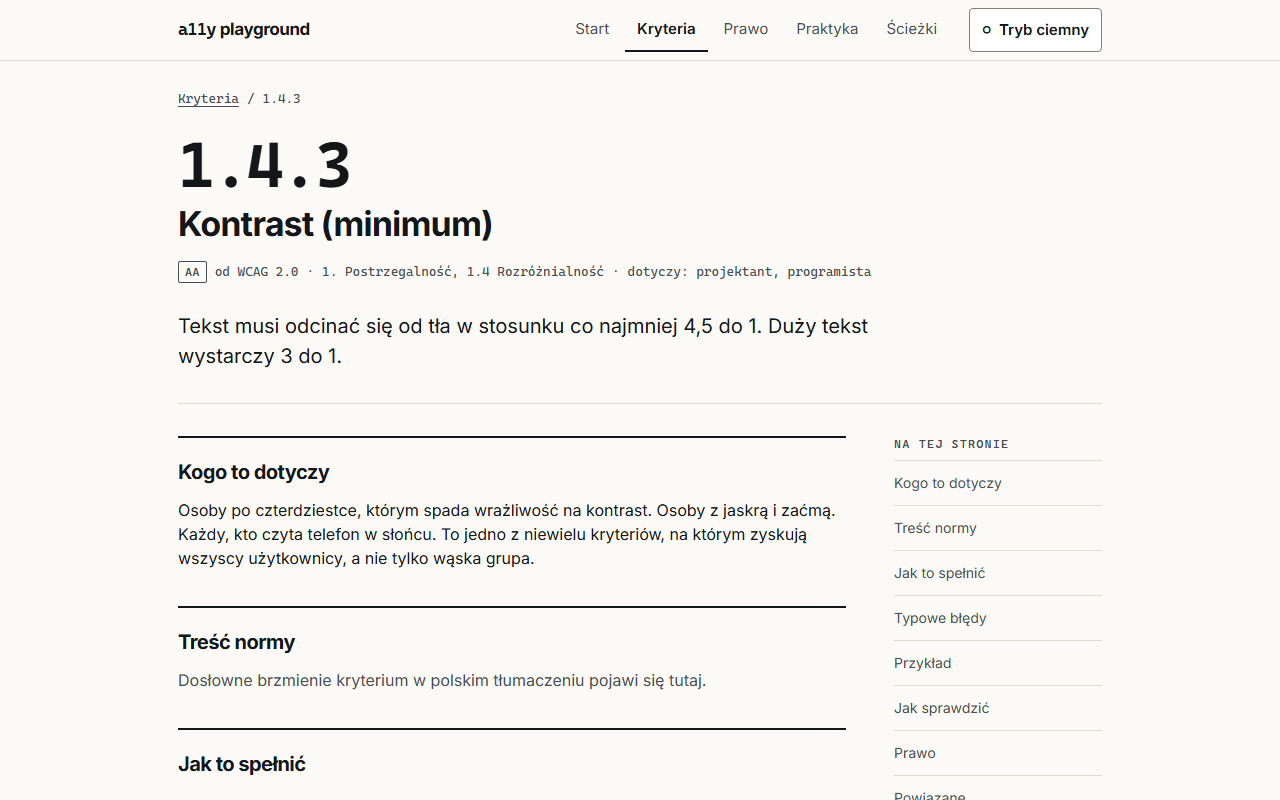
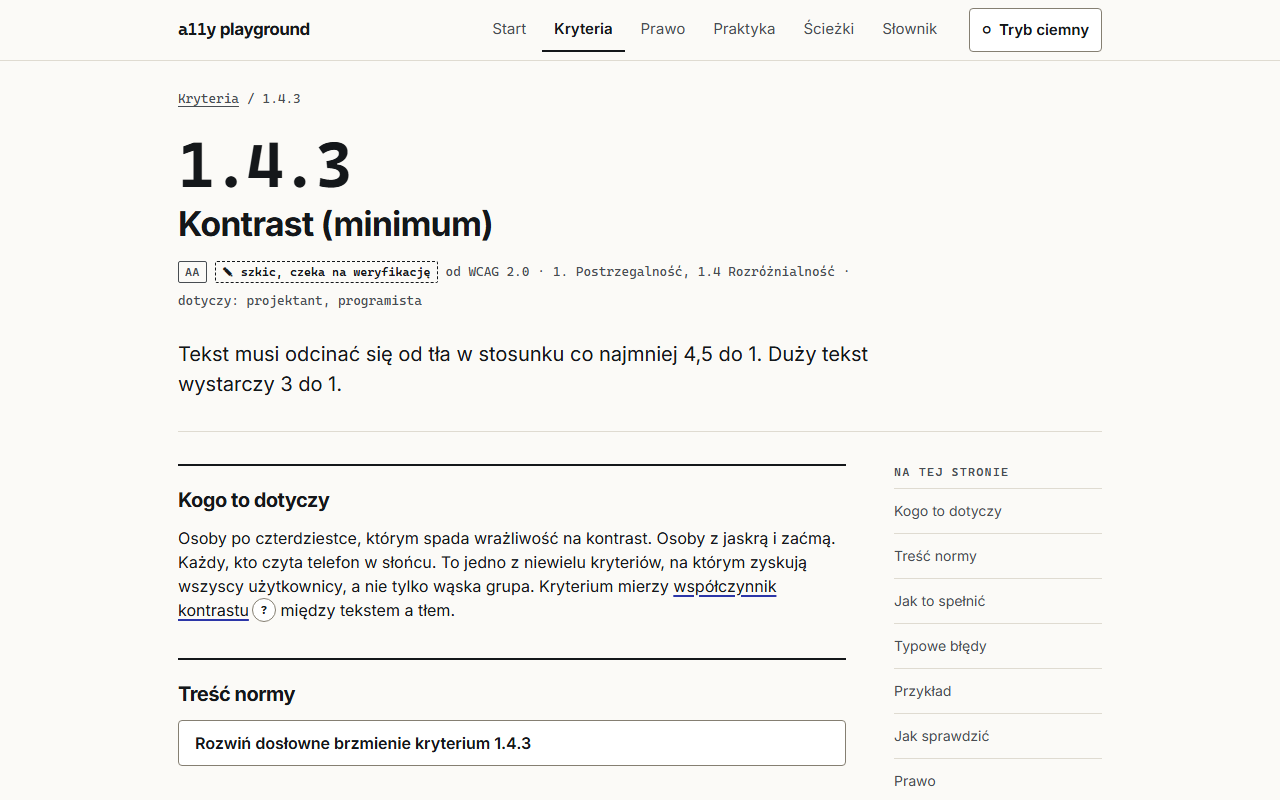
docs: update README for phase 2

diff --git a/README.md b/README.md
@@ -19,7 +19,7 @@ a11y playground is a learning app for people who build digital products in Polan
 The interface is in Polish. This README is in English.
 
 > [!NOTE]
-> The project is in phase 1 (content skeleton). All 86 WCAG 2.2 criteria are listed and have their own page, but most pages are still empty sections. Explanations arrive in phase 2. Prawo, Praktyka and Ścieżki are placeholders until later phases.
+> The project is in phase 2 (explanations). Every A and AA criterion of WCAG 2.2 has a plain-language explanation, marked as a draft until a person has checked it. AAA criteria get their content in phase 8. Prawo, Praktyka and Ścieżki are placeholders until later phases.
 
 ### What works today
 
@@ -27,8 +27,12 @@ The interface is in Polish. This README is in English.
 - Main navigation that wraps onto its own row on narrow screens instead of hiding behind a menu button.
 - Light and dark mode. It follows the operating system by default, and the header toggle stores an explicit choice.
 - Skip link, a stable landmark structure, and focus moved to the new `h1` with the page title announced after every client-side route change.
-- **Criteria list** (`/kryteria`) with filters for WCAG version, level and principle. The filters are native radio buttons and checkboxes, their state lives in the URL, and the result count is announced to screen readers.
+- **Criteria list** (`/kryteria`) with filters for WCAG version, level, principle and role. The filters are native radio buttons and checkboxes, their state lives in the URL, and the result count is announced to screen readers.
 - **Criterion pages** (`/kryteria/1.4.3`) with a fixed section order, a "nowe w 2.2" badge for the nine new criteria, and 4.1.1 marked as removed in 2.2. Every page is prerendered to static HTML.
+- **Explanations** for all 55 A and AA criteria: who it affects, how to meet it by role, typical errors, how to test it, common confusions. Drafts carry a visible "szkic, czeka na weryfikację" badge.
+- **Normative text** in Polish from the authorized W3C translation of WCAG 2.1, collapsed on each criterion page. The criteria new in 2.2 link to their sources until a licensed Polish text is available.
+- **Glossary** (`/slownik`) of about 30 terms, alphabetical, each with a plain explanation and, where WCAG defines the term, its normative wording. The first use of a term in a criterion links to it, with a small button that opens a short definition.
+- **Search** (`/szukaj`, also on the home page) over criteria and the glossary. It finds criteria by number, name or symptom ("modal", "placeholder") and ignores Polish diacritics.
 
 | Light | Dark | Mobile |
 | --- | --- | --- |
@@ -36,7 +40,11 @@ The interface is in Polish. This README is in English.
 
 | Criteria list | Criterion page |
 | --- | --- |
-| ![Criteria list with version, level and principle filters](docs/screenshots/criteria-list.png) | ![Criterion page for 1.4.3 Kontrast (minimum)](docs/screenshots/criterion-page.png) |
+| ![Criteria list with version, level, principle and role filters](docs/screenshots/criteria-list.png) | ![Criterion page for 1.4.3 Kontrast (minimum) with a draft badge](docs/screenshots/criterion-page.png) |
+
+| Glossary preview | Glossary | Search |
+| --- | --- | --- |
+| ![Definition preview opened next to a term on a criterion page](docs/screenshots/glossary-preview.png) | ![Glossary page with the letter index](docs/screenshots/glossary.png) | ![Search results for kontrast](docs/screenshots/search.png) |
 
 ## Getting started
 
@@ -55,19 +63,20 @@ pnpm exec playwright install chromium
 
 ## Writing content
 
-Criterion names, levels and versions are generated. The explanations are written by hand in Markdown, one file per criterion in `content/kryteria/<id>.md`:
+Criterion names, levels, versions and normative text are generated. The explanations are written by hand in Markdown, one file per criterion in `content/kryteria/<id>.md`:
 
 ```markdown
 ---
+status: szkic
 summary: Tekst musi odcinać się od tła w stosunku co najmniej 4,5 do 1.
 roles: [projektant, programista]
 related: ["1.4.6", "1.4.11"]
-lastVerified: 2026-09-27
+keywords: [szary tekst, placeholder]
 ---
 
 ## Kogo to dotyczy
 
-Osoby po czterdziestce, którym spada wrażliwość na kontrast.
+Osoby po czterdziestce, którym spada wrażliwość na kontrast. Kryterium mierzy [współczynnik kontrastu](slownik:wspolczynnik-kontrastu).
 
 ## Jak to spełnić
 
@@ -77,24 +86,47 @@ Osoby po czterdziestce, którym spada wrażliwość na kontrast.
 ```
 
 - **Frontmatter:**
+  - `status`: `szkic` for a draft, `zweryfikowane` once a person has checked it against the sources.
   - `summary`: one sentence, up to 200 characters.
   - `roles`: any of `programista`, `projektant`, `autor treści`, `tester`.
   - `related`: other criterion numbers.
-  - `lastVerified`: date of the last check against the sources.
-- **Sections** must use these `##` titles, in this order: Kogo to dotyczy, Jak to spełnić, Typowe błędy, Jak sprawdzić, Częste pomyłki. Leave out any you have not written yet. Use `###` inside a section, for example to split it by role.
-- **Checks:** a file with a typo in a section title, an unknown key, a summary that is too long, or a reference to a criterion that does not exist fails `pnpm test` and the build, with the file name and the reason.
+  - `keywords`: optional words people search with, not shown on the page.
+  - `lastVerified`: the date of that check. Required with `zweryfikowane`, not allowed with `szkic`.
+- **Sections** must use these `##` titles, in this order: Kogo to dotyczy, Jak to spełnić, Typowe błędy, Jak sprawdzić, Częste pomyłki. Use `###` inside a section, for example to split it by role. Every A and AA criterion needs the first four.
+- **Glossary terms:** mark a term as `[nazwę](slownik:nazwa)`. The first use on a page becomes a link with a definition preview, later uses stay plain text. Terms are marked by hand because Polish inflection makes automatic matching unreliable.
+- **Checks:** a file with a typo in a section title, an unknown key or glossary term, a summary that is too long, or a reference to a criterion that does not exist fails `pnpm test` and the build, with the file name and the reason. So does a missing A or AA explanation, and verified content older than 12 months.
+
+To verify a draft, check it against the normative text and the W3C Understanding document, then change `status` to `zweryfikowane` and add `lastVerified`.
+
+### Glossary entries
+
+One file per term in `content/slownik/<slug>.md`. The slug is the anchor on `/slownik`.
+
+```markdown
+---
+term: nazwa
+also: [dostępna nazwa]
+normative: nazwa
+status: szkic
+---
+To, co czytnik ekranu powie o kontrolce, zanim powie, czym ona jest.
+```
+
+`also` lists everyday names, shown under the term and matched by search. `normative` names the term in the WCAG 2.1 glossary; its definition is imported, not typed.
 
 > [!NOTE]
 > Later the content will be edited in Notion. A sync script will write these same files, so this format stays the contract between editors and the app.
 
 ### Where the criterion names come from
 
-`pnpm import:wcag` regenerates `src/content/wcag.gen.ts`. It takes numbers, levels and versions from the W3C WCAG 2.2 data. Polish names come from two sources:
+`pnpm import:wcag` regenerates `src/content/wcag.gen.ts` and `src/content/wcag-text.gen.ts`. It takes numbers, levels and versions from the W3C WCAG 2.2 data. Polish names come from two sources:
 
 - the [authorized W3C translation of WCAG 2.1](https://www.w3.org/Translations/WCAG21-pl/),
 - for the nine criteria new in 2.2, the [unofficial IRDPL translation](https://wcag.irdpl.pl/guidelines/22/), because there is no authorized Polish translation of 2.2 yet. Each criterion page says which source its name comes from.
 
-Run the import by hand and review the diff of the generated file in a PR.
+The normative text of criteria and the glossary definitions come only from the authorized 2.1 translation. Text from IRDPL will be quoted once IRDPL confirms the licence.
+
+Run the import by hand and review the diff of the generated files in a PR.
 
 ## Scripts
 
@@ -116,6 +148,7 @@ CI runs `lint`, `build` and `test` on every pull request and on pushes to `maste
 - Inter, self-hosted through `@fontsource-variable/inter`. Criterion numbers, article numbers and dates use the system monospace font.
 - [Nitro](https://nitro.build) for the server build. It picks the Vercel preset automatically when the build runs on Vercel.
 - [ArkType](https://arktype.io) to validate content files and URL filters, [marked](https://marked.js.org) to render Markdown on the server.
+- [MiniSearch](https://lucaong.github.io/minisearch/) for search. The index is built at prerender time into a static `/search-index.json`, loaded only on `/szukaj`.
 - [Vitest](https://vitest.dev) for content tests, [Playwright](https://playwright.dev) with [axe-core](https://github.com/dequelabs/axe-core) for end-to-end accessibility tests.
 
 ## Accessibility of the app itself
@@ -135,12 +168,14 @@ The baseline is WCAG 2.2 Level AA, plus 2.3.3 and 2.5.5 at AAA. See [`docs/acces
 ```text
 content/
   kryteria/      one Markdown file per criterion
+  slownik/       one Markdown file per glossary term
 scripts/
-  import-wcag.ts generates src/content/wcag.gen.ts
+  import-wcag.ts generates src/content/wcag.gen.ts and wcag-text.gen.ts
 src/
   content/       WCAG structure, Markdown parsing and validation, server functions
+  search/        search options, index builder and relevance tests
   routes/        file-based routes (__root.tsx holds the layout)
-  components/    header, theme toggle, route announcer, level badges
+  components/    header, theme toggle, route announcer, badges, glossary previews
   styles.css     Tailwind setup, colour tokens, styles for rendered Markdown
 e2e/             Playwright tests: axe, target size, keyboard
 docs/
@@ -155,7 +190,7 @@ The full plan, with content scope, architecture and risks, is in [`docs/design/2
 
 - [x] **0. Foundation.** App shell, navigation, themes, lint, tests, CI.
 - [x] **1. Content skeleton.** WCAG structure with Polish names, Markdown content format, criteria list with filters, prerendered criterion pages.
-- [ ] **2. Explanations.** Plain-language content for every A and AA criterion, glossary, search.
+- [x] **2. Explanations.** Plain-language drafts for every A and AA criterion, normative text, glossary, search, role filter. Detailed plan: [`docs/design/2026-09-27-phase-2-content`](docs/design/2026-09-27-phase-2-content/phase-2-content.en.html).
 - [ ] **3. Examples.** Bad and good examples, with the bad one isolated in an iframe.
 - [ ] **4. Legal module.** Polish acts, EN 301 549, the law-to-criterion mapping.
 - [ ] **5. Accounts.** Optional progress, notes and bookmarks with Convex.
